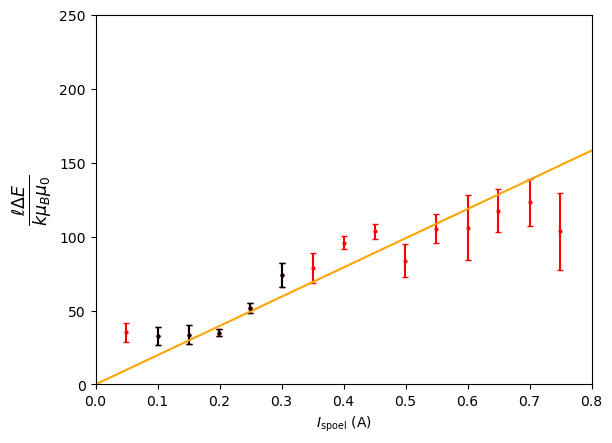
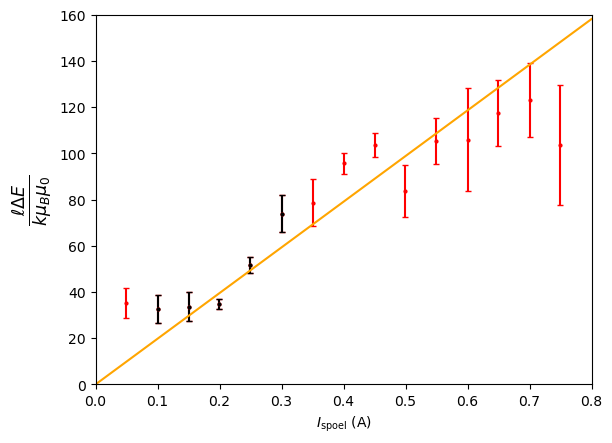
nieuwe figuren

diff --git a/meting2.py b/meting2.py
@@ -202,11 +202,11 @@ def try_fit(m_Fl, m_Fr):
         plt.ylabel(r"$\frac{\ell \Delta E}{k \mu_B \mu_0}$", fontsize=18)
         plt.plot([0, 0.8], [0, 0.8 * fit.params["N"].value], color="orange")
         plt.xlim(0, 0.8)
-        plt.ylim(0, 250)
+        plt.ylim(0, 160)
         plt.savefig("fit1.png", bbox_inches = "tight")
         plt.show()
 
-    if m_Fl == 2 and m_Fr == -2:
+    if m_Fl == 1 and m_Fr == -1:
         plt.errorbar(
             x=current_df["current"],
             y=lin_vals,
@@ -229,20 +229,25 @@ def try_fit(m_Fl, m_Fr):
         plt.ylabel(r"$\frac{\ell \Delta E}{k \mu_B \mu_0}$", fontsize=18)
         plt.plot([0, 0.8], [0, 0.8 * fit.params["N"].value], color="orange")
         plt.xlim(0, 0.8)
-        plt.ylim(0, 250)
+        plt.ylim(0, 200)
         plt.savefig("fit2.png", bbox_inches = "tight")
         plt.show()
 
-    return fit.params["N"].value
+    return fit.params["N"].value, fit.params["N"].stderr
 
 
-N_values = {}
+N_values = []
+N_values_err = []
 for i in range(-2, 3):
     for j in range(-2, 3):
-        N_values[(i, j)] = try_fit(i, j)
+        N, N_err = try_fit(i, j)
+        N_values.append(N)
+        N_values_err.append(N_err)
 
-print(N_values)
-counts, bins, bars = plt.hist(N_values.values(), bins=25, fc="aqua", ec="black")
+N_values = np.array(N_values)
+N_values_err = np.array(N_values_err)
+
+counts, bins, bars = plt.hist(N_values, bins=25, fc="aqua", ec="black")
 plt.xlim(150, 550)
 plt.ylim(0, 6)
 plt.xlabel(r"$N$")
@@ -250,8 +255,7 @@ plt.ylabel("counts")
 plt.savefig("hist.png")
 plt.show()
 
-bin_centers = []
-for i in range(len(bins) - 1):
-    bin_centers.append((bins[i] + bins[i + 1]) / 2)
+avg_N = sum(N_values) / len(N_values)
+avg_N_err = np.sqrt(sum(N_values_err**2)) / len(N_values_err)
 
-plt.scatter(counts, bin_centers)
+print(f"N = {avg_N} +- {avg_N_err}")
